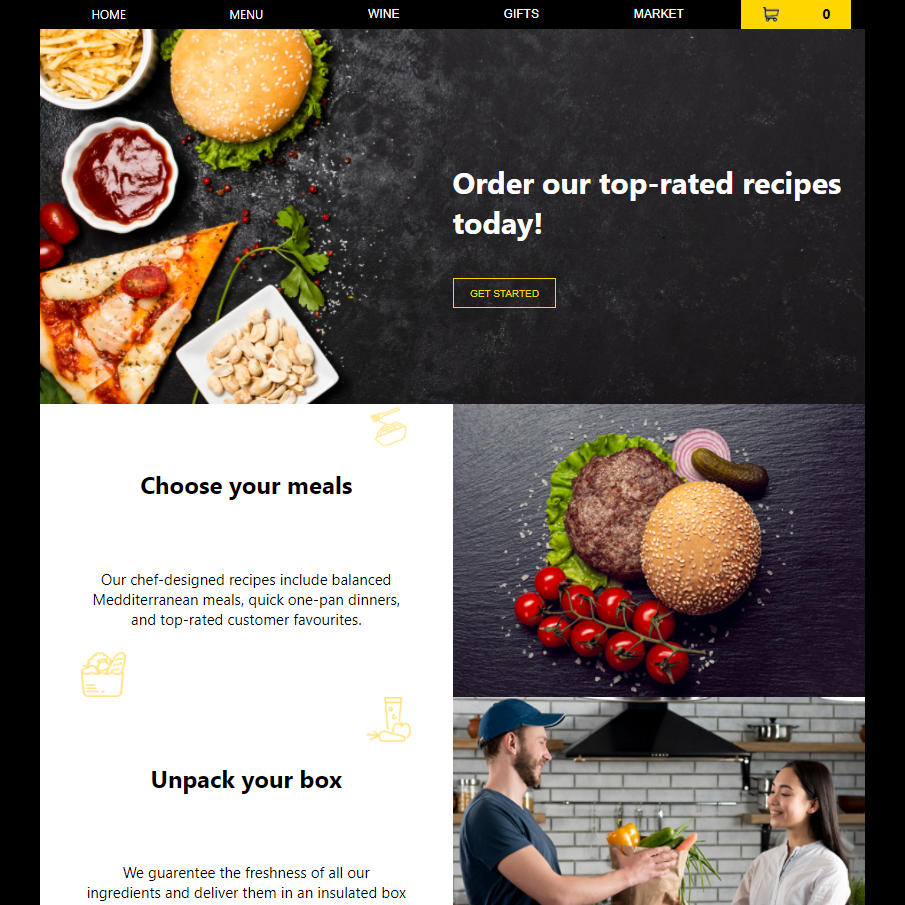
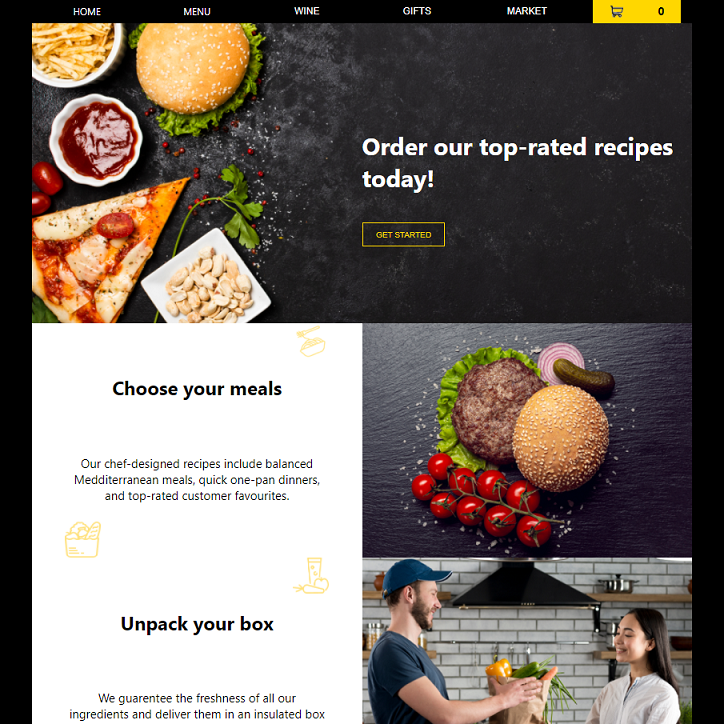
added new imgs and content

diff --git a/src/styles/Layout.styled.js b/src/styles/Layout.styled.js
@@ -1,40 +1,50 @@
 import styled from "styled-components";
 import img from "../images/c.jpg";
 
-export const LayoutBody = styled.main`
+export const Body = styled.div`
   display: grid;
   height: 100vh;
   overflow: hidden;
   grid-template-columns: 1fr;
-  grid-template-rows: 50px 1fr;
+  grid-template-rows: 50px 1fr 30px;
   grid-auto-columns: 1fr;
   gap: 10px;
   background-image: url(${img});
   background-position: center;
+  footer {
+    background-color: #000000a2;
+    justify-self: end;
+    padding: 5px;
+  }
 `;
 
 export const Navbar = styled.nav`
   background-color: #000000b5;
+  display: grid;
+  grid-template-columns: minmax(200px, 600px) minmax(75px, 250px);
+  grid-template-rows: 50px;
+  justify-content: space-between;
+
+  ul.internal {
+    grid-template-columns: repeat(3, 1fr);
+  }
+  ul.external {
+    grid-template-columns: repeat(2, 1fr);
+    img {
+      height: 50px;
+      width: 50px;
+    }
+  }
   ul {
     display: grid;
-    grid-template-columns: repeat(3, 1fr) repeat(2, 60px);
     grid-template-rows: 50px;
-    gap: 20px;
     list-style: none;
-    a,
-    .external > li {
+    gap: 10px;
+    text-align: center;
+    a {
       display: grid;
       align-content: center;
-      height: auto;
       text-decoration: none;
-      font-size: 20px;
-      img {
-        display: absolute;
-        height: 40px;
-        width: auto;
-        justify-self: center;
-        align-self: center;
-      }
       &:hover {
         background: #80008096;
         transition: 0.2s;

diff --git a/src/pages/about.js b/src/pages/about.js
@@ -1,19 +1,29 @@
 import React from "react";
 import { About } from "../styles/About.styled";
 import Layout from "../components/Layout";
+import StackCard from "../components/StackCard";
 
 const AboutPage = () => {
   return (
     <Layout>
       <About>
-        <h1>Hmilly</h1>
-        <h2>Frontend Developer</h2>
-        <p>
-          Hi! Thanks for visiting my page.
-          <br />I have been studying and self learning for around 2 years.
-          <br />
-          Please view my available projects below:
-        </p>
+        <div>
+          <h1>Bio:</h1>
+          <h2>Holly - Frontend Developer</h2>
+          <p>Hi! Thanks for visiting my page</p>
+          <p>I have been studying and self learning for around 2 years</p>
+          <p>Focusing mostly on Frontend development.</p>
+          <p>Please feel free to view my projects,</p>
+          <p>or reach out. Thanks</p>
+        </div>
+        <div>
+          <h1>Things I'm interested to try:</h1>
+          <p>Svelte</p>
+          <p>Next.js</p>
+          <p>vue</p>
+          
+        </div>
+        <StackCard />
       </About>
     </Layout>
   );

diff --git a/src/styles/About.styled.js b/src/styles/About.styled.js
@@ -1,14 +1,28 @@
 import styled from "styled-components";
 
-export const About = styled.div`
+export const About = styled.main`
   display: grid;
-  grid-template-columns: 1fr;
-  grid-template-rows: repeat(4, auto);
-  gap: 5px;
-  justify-items: center;
-  align-items: center;
-  background-color: #000000b5;
-  h1 {
-    text-decoration: underline;
+  grid-template-columns: repeat(auto-fit, minmax(150px, 600px));
+  grid-template-rows: 1fr 200px;
+  gap: 15px;
+  padding-top: 30px;
+
+  align-content: end;
+  justify-content: center;
+  grid-template-areas:
+    "div div"
+    "stack stack";
+  div {
+    display: grid;
+    grid-template-columns: 1fr;
+    grid-template-rows: auto;
+    justify-items: start;
+    background-color: #000000b5;
+
+    &:nth-child(3) {
+      grid-area: stack;
+      align-self: center;
+      justify-self: center;
+    }
   }
 `;

diff --git a/src/styles/Index.styled.js b/src/styles/Index.styled.js
@@ -1,5 +1,44 @@
 import styled from "styled-components";
 
-export const Index = styled.div`
+export const Index = styled.main`
+  display: grid;
+  grid-template-columns: repeat(auto-fit, minmax(350px, 500px));
+  grid-template-rows: repeat(2, 1fr);
+  grid-template-areas:
+    "pic"
+    "icons";
+  align-items: center;
+  justify-items: center;
+  justify-content: center;
+  .profile {
+    grid-area: pic;
+    width: 80%;
+    height: auto;
+    max-height: 450px;
+    border-radius: 50%;
+  }
+  div{
+    grid-area: icons;
+  }
+`;
 
+export const Stack = styled.div`
+  display: grid;
+  justify-items: center;
+  grid-template-areas:
+    "html"
+    "js";
+  span {
+    &:nth-child(1) {
+      grid-area: html;
+    }
+    &:nth-child(2) {
+      grid-area: js;
+    }
+    img {
+      width: auto;
+      max-height: 80px;
+      height: 100%;
+    }
+  }
 `;

diff --git a/src/components/Nav.js b/src/components/Nav.js
@@ -7,7 +7,7 @@ import lin from "../images/lin.jpg";
 const Nav = () => {
   return (
     <Navbar>
-      <ul>
+      <ul className="internal">
         <Link to="/">
           <li>Home</li>
         </Link>
@@ -17,9 +17,10 @@ const Nav = () => {
         <Link to="/about">
           <li>About</li>
         </Link>
+      </ul>
+      <ul className="external">
         <a
           href="https://github.com/hmilly"
-          className="external"
           target="_blank"
           rel="noreferrer"
         >
@@ -29,7 +30,6 @@ const Nav = () => {
         </a>
         <a
           href="https://www.linkedin.com/in/hmilly/"
-          className="external"
           target="_blank"
           rel="noreferrer"
         >

diff --git a/src/components/Layout.js b/src/components/Layout.js
@@ -1,16 +1,21 @@
 import React from "react";
 import { GlobalStyles } from "../styles/Global";
-import { LayoutBody } from "../styles/Layout.styled";
+import { Body } from "../styles/Layout.styled";
 import Nav from "./Nav";
 
 const Layout = ({ children }) => {
   return (
-    <LayoutBody>
-      <GlobalStyles />
+    <Body>
       <title>Hm Portfolio</title>
-      <Nav />
+      <GlobalStyles />
+      <header>
+        <Nav />
+      </header>
       {children}
-    </LayoutBody>
+      <footer>
+        <p>2022 Hmilly</p>
+      </footer>
+    </Body>
   );
 };
 

diff --git a/src/components/StackCard.js b/src/components/StackCard.js
@@ -1,0 +1,23 @@
+import React from "react";
+import html from "../images/html.jpg";
+import css from "../images/css.jpg";
+import react from "../images/react.jpg";
+import js from "../images/js.jpg";
+import {Stack} from "../styles/Index.styled"
+
+const StackCard = () => {
+  return (
+    <Stack>
+      <span>
+        <img src={html} alt="html" />
+        <img src={css} alt="css" />
+      </span>
+      <span>
+        <img src={js} alt="js" />
+        <img src={react} alt="react" />
+      </span>
+    </Stack>
+  );
+};
+
+export default StackCard;

diff --git a/src/styles/Global.js b/src/styles/Global.js
@@ -7,21 +7,20 @@ export const GlobalStyles = createGlobalStyle`
     box-sizing: border-box;
     padding: 0;
     margin: 0;
-    text-align: center;
 }
 
-p, h1, h3{
+p, h1, h2, h3, li{
     text-shadow: 3px 2px #632968e8;
     color: #bfc4ff;
 }
 h1{
-    font-size: 50px;
+    font-size: 30px;
 }
 h2{
-    font-size: 24px;
+    font-size: 25px;
 }
-p{
-    font-size: 18px;
+p, li{
+    font-size: 20px;
 }
 
 `;

diff --git a/src/pages/index.js b/src/pages/index.js
@@ -1,14 +1,15 @@
 import React from "react";
 import Layout from "../components/Layout";
+import StackCard from "../components/StackCard";
 import { Index } from "../styles/Index.styled";
+import h from "../images/h.jpg";
 
 const IndexPage = () => {
   return (
     <Layout>
       <Index>
-
-
-
+        <img className="profile" src={h} alt="profile" />
+        <StackCard />
       </Index>
     </Layout>
   );

diff --git a/src/styles/Projects.styled.js b/src/styles/Projects.styled.js
@@ -1,6 +1,6 @@
 import styled from "styled-components";
 
-export const Grid = styled.div`
+export const Grid = styled.main`
   display: grid;
   margin: 10px;
   grid-template-columns: repeat(auto-fit, minmax(300px, 350px));
